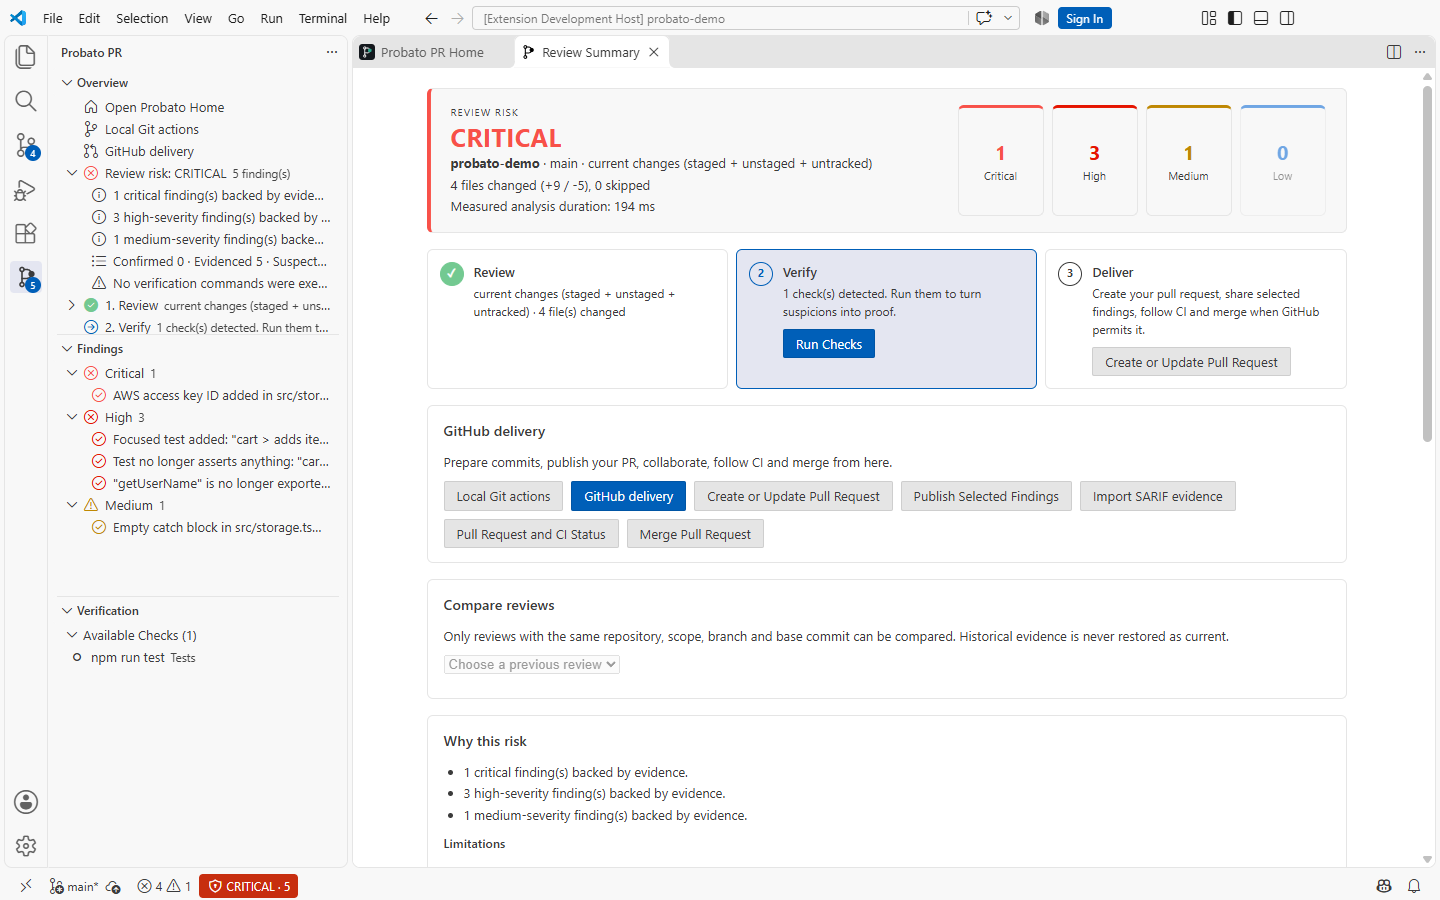
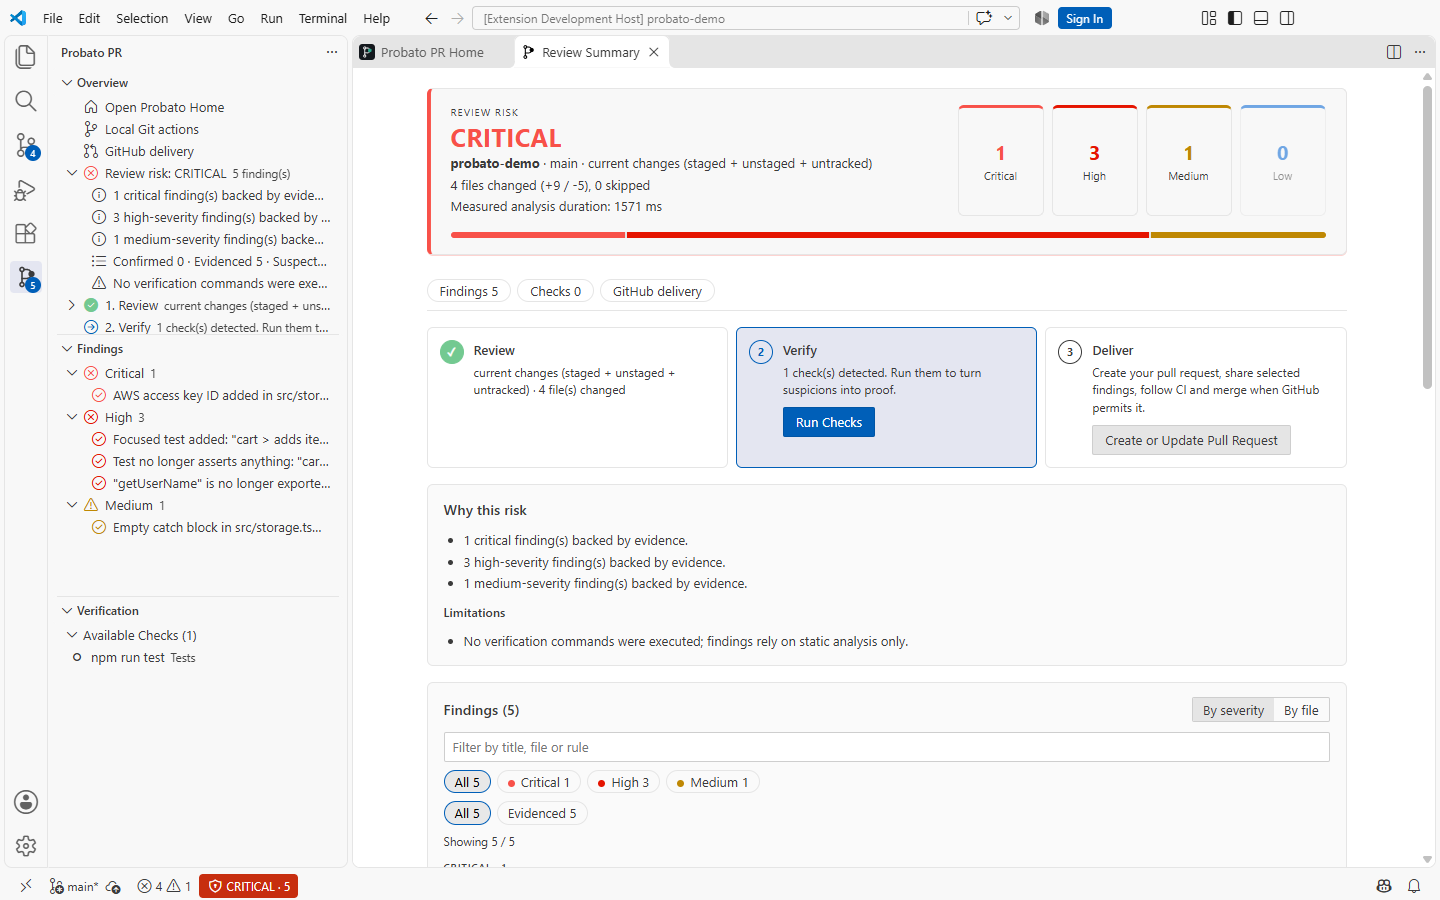
docs: document 1.1.0 and refresh screenshots
Regenerate the screenshots from the real extension, add the GitHub delivery
shots and describe the full-analysis publication and the renewed Summary.

diff --git a/test/integration/screenshot-driver.ts b/test/integration/screenshot-driver.ts
@@ -47,6 +47,7 @@ export async function run(): Promise<void> {
   const shots: readonly Shot[] = [
     { name: 'home', prepare: () => vscode.commands.executeCommand('probatoPR.openHome', 'home') },
     { name: 'review-summary', prepare: () => vscode.commands.executeCommand('probatoPR.showResults') },
+    { name: 'github', prepare: () => vscode.commands.executeCommand('probatoPR.openHome', 'github') },
     { name: 'settings', prepare: () => vscode.commands.executeCommand('probatoPR.openHome', 'settings') },
   ];
   for (const { suffix, theme } of THEMES) {

diff --git a/README.md b/README.md
@@ -15,7 +15,20 @@ deliver pull requests without leaving the editor.
 No account, no AI key, no server, no subscription is needed for the core review. When you want more, **bring your own
 AI**: GitHub Copilot, Claude, OpenAI or a local model.
 
-## What's new in 1.0
+## What's new in 1.1
+
+- **Publish the full analysis to GitHub:** one command posts the complete report (findings, severities, evidence,
+  verification, recommendations and conclusions) as a single comment on the pull request. The pull request is
+  detected automatically, you edit the text first and confirm explicitly, and publishing again updates the earlier
+  comment instead of duplicating it. The pull request head must match the reviewed commit, secrets are redacted and
+  inline findings publishing is unchanged ([details](docs/DELIVERY.md)).
+- **Renewed Review Summary:** search findings by title, file or rule, filter by severity and verification, jump
+  between sections, see the severity distribution at a glance, and read the checks outcome as totals. Sections follow
+  the order verdict, risk, findings, checks and delivery.
+- **Clearer GitHub delivery:** both the Review Summary and Home group delivery into prepare, share and follow, with
+  the full-analysis action first.
+
+## What was new in 1.0
 
 Version 1.0.0 is the first stable release. Everything that worked in 0.6.0 keeps working the same way: commands,
 settings, CLI defaults and exit codes, the JSON/SARIF report shape and the review history are unchanged.
@@ -96,7 +109,8 @@ Each scope shows its own values; workspace preferences can override user prefere
 
 ![Probato PR Settings in a dark theme: review and verification preferences](media/screenshots/settings-dark.png)
 
-The Review Summary shows the risk, the findings by severity and the next step: verify, then deliver.
+The Review Summary shows the risk, the severity distribution, section navigation and the next step: verify, then
+deliver. Findings can be searched and filtered by severity and verification status.
 
 ![Probato PR Review Summary in a dark theme: critical risk, findings by severity and the review, verify and deliver steps](media/screenshots/review-summary-dark.png)
 
@@ -106,9 +120,11 @@ The same control center adapts to light themes, including navigation, text, cont
 
 ![Probato PR Review Summary in a light theme](media/screenshots/review-summary-light.png)
 
+![Probato PR GitHub delivery in a light theme](media/screenshots/github-light.png)
+
 ![Probato PR Settings in a light theme](media/screenshots/settings-light.png)
 
-*Real screenshots of version 1.0.0 in English, generated automatically with `pnpm run screenshots`: it opens
+*Real screenshots of version 1.1.0 in English, generated automatically with `pnpm run screenshots`: it opens
 VS Code with the extension on the demonstration repository from `scripts/create-demo-repo.mjs`, runs a review and
 captures each screen. No GitHub account is connected and no code is published. Probato PR also includes Spanish
 translations.*
@@ -135,11 +151,13 @@ New to Probato PR? Run `Welcome: Open Walkthrough` and pick **Get started with P
 
 ## Complete GitHub delivery
 
-Use **Probato PR: GitHub Delivery** to create or update pull requests, publish selected findings, manage reviews
+Use **Probato PR: GitHub Delivery** to create or update pull requests, publish selected findings or the full analysis, manage reviews
 and conversations, follow CI, read job logs and merge with an expected commit and destination. **Local Git Actions**
 handles branches, staging, commits, pushes and fast-forward synchronization. Every write presents its destination
 and content before execution. CI status separates passed, neutral, skipped, pending and failed checks and marks
 which ones the base branch requires. See the [delivery guide](docs/DELIVERY.md) for the full workflow and CLI.
+
+![Probato PR Home GitHub section in a dark theme: connection status, the full-analysis action and delivery grouped into prepare, share and follow](media/screenshots/github-dark.png)
 
 ## Features
 
